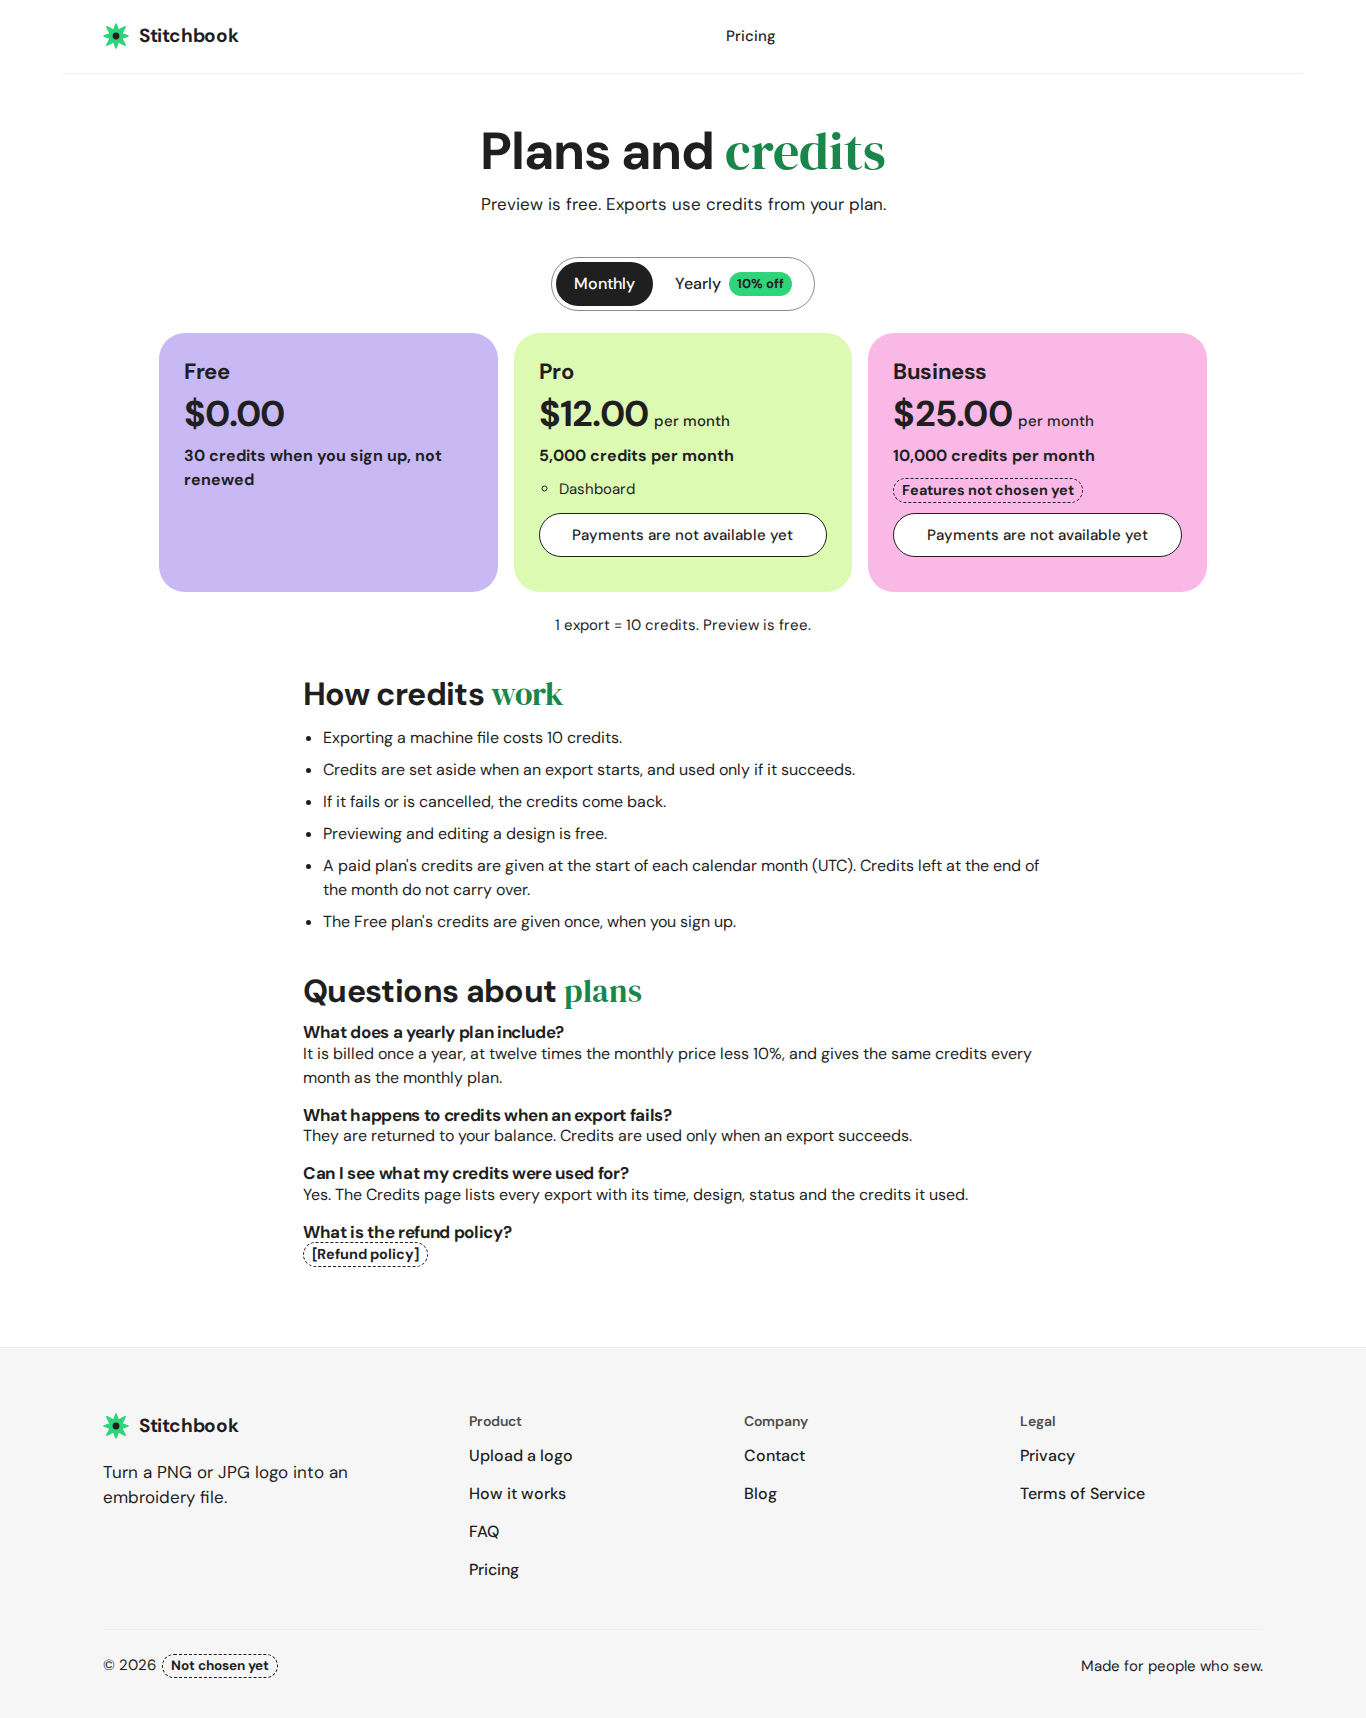
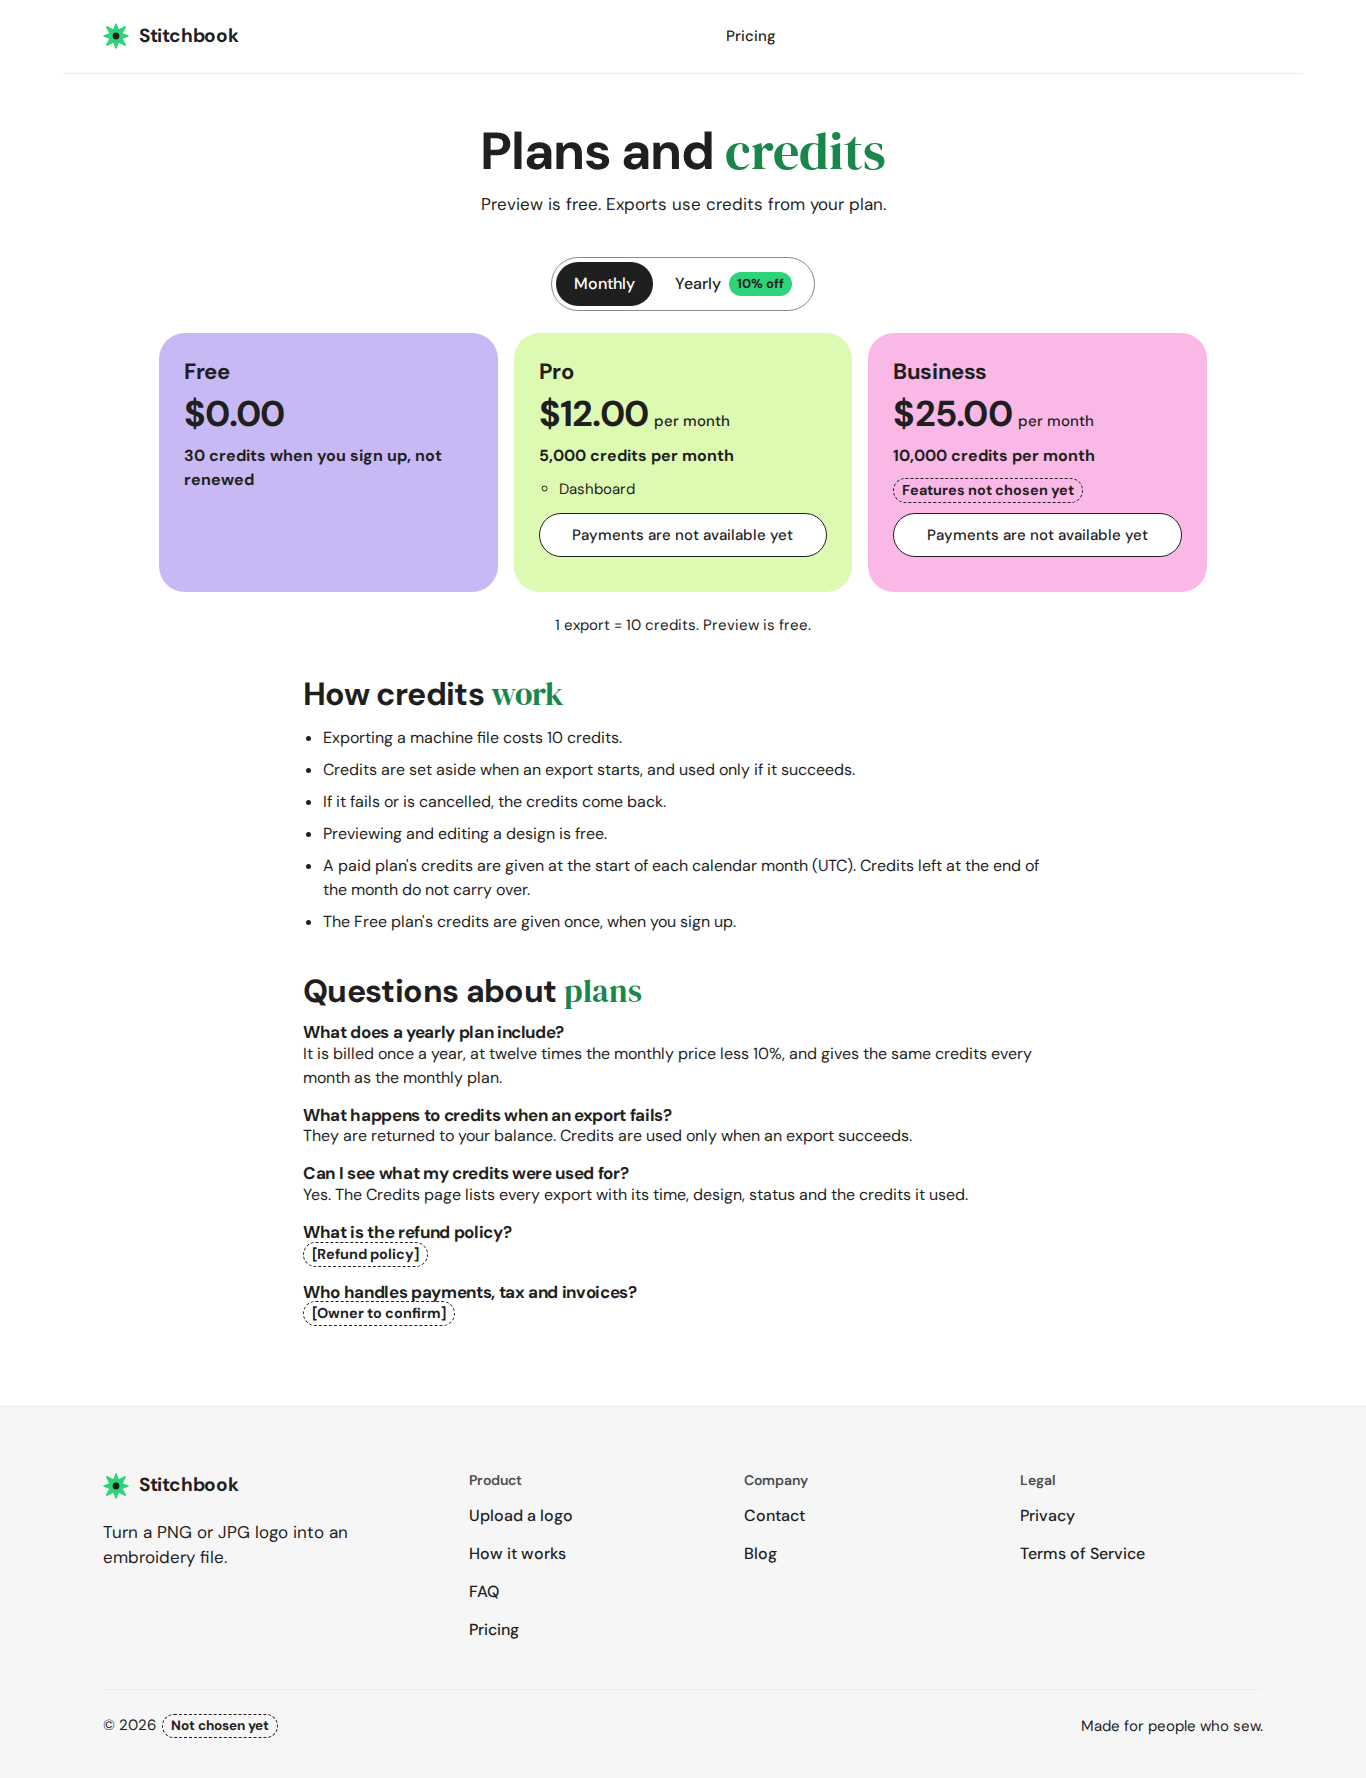
Billing page: Manage billing, Cancel plan, return from checkout, past due
- /billing: Manage billing opens the provider's own page; Cancel plan asks first
- Back from checkout (?checkout=done): checks /me/credits every checkout_return_poll_s
  for checkout_return_wait_s (config; unset = a Check again button only)
- Past due shown plainly; who handles payments/tax stays a visible placeholder
- Phone width: the history wraps instead of widening the page
- test:pricing scans web/src for payment-provider or tax claims

Claude-Session: https://claude.ai/code/session_01UyZuVeNqbWQ99HSc4PFdeP

diff --git a/web/src/pages/Billing.tsx b/web/src/pages/Billing.tsx
@@ -1,22 +1,113 @@
-import { useEffect } from "react";
-import { Link } from "react-router-dom";
+import { useEffect, useRef, useState } from "react";
+import { Link, useSearchParams } from "react-router-dom";
 
+import { api, ApiError, type Account, type Plans } from "../lib/api";
 import { loginPath, signInEnabled, useSession } from "../lib/auth";
-import { count, refreshCredits, useCredits } from "../lib/credits";
-import { SiteFooter, SiteHeader } from "../lib/SiteChrome";
+import { count, refreshCredits, useCredits, usePlans } from "../lib/credits";
+import { NotChosen, SiteFooter, SiteHeader } from "../lib/SiteChrome";
 import { usePage } from "../lib/usePage";
 import "../css/pricing.css";
 
-// /billing: the signed-in user's plan, credit balances and every metered operation.
+// /billing: the signed-in user's plan, credit balances and every metered operation; Manage
+// billing and Cancel plan (the payment provider's own pages: no card form here); and, back from
+// the payment page (?checkout=done), a short wait for the payment to show up.
 
 const TIME = new Intl.DateTimeFormat("en", { dateStyle: "medium", timeStyle: "short" });
 const OPERATION: Record<string, string> = { export: "Export", satin_columns: "Satin columns", auto_digitize: "Auto-digitize" };
 const STATUS: Record<string, string> = { started: "In progress", succeeded: "Done", failed: "Failed (credits returned)", cancelled: "Cancelled (credits returned)" };
 
+type Enabled = Extract<Account, { enabled: true }>;
+const paid = (a: Account | null) => !!a && a.enabled && a.plan !== "free" && a.status === "active";
+const failure = (err: unknown) => err instanceof ApiError && err.status === 503 ? "Payments are not available yet."
+  : "The payment service did not answer. Try again in a minute.";
+
+/** Back from the payment page: look for the payment every poll_s seconds, for at most wait_s. */
+function CheckoutReturn({ plans, account }: { plans: Plans; account: Account | null }) {
+  const { poll_s: poll, wait_s: wait } = plans.checkout_return;
+  const auto = !!poll && !!wait;
+  const [state, setState] = useState<"waiting" | "late">(auto ? "waiting" : "late");
+  const [checking, setChecking] = useState(false);
+  const arrived = paid(account);
+  useEffect(() => {
+    if (!auto || arrived || state !== "waiting") return;
+    const started = Date.now();
+    const timer = window.setInterval(() => {
+      if (Date.now() - started >= wait! * 1000) { setState("late"); window.clearInterval(timer); return; }
+      void refreshCredits();
+    }, poll! * 1000);
+    return () => window.clearInterval(timer);
+  }, [auto, arrived, state, poll, wait]);
+  if (arrived) {
+    return <p className="billing__notice" role="status">Your payment went through. Your plan is now {(account as Enabled).plan_name ?? (account as Enabled).plan}.</p>;
+  }
+  if (state === "waiting") return <p className="billing__notice" role="status">Checking for your payment…</p>;
+  return (
+    <div className="billing__notice" role="status">
+      <p>Your payment has not shown up here yet. It can take a few minutes.</p>
+      <button className="btn btn--ghost" type="button" disabled={checking}
+        onClick={() => { setChecking(true); void refreshCredits().finally(() => setChecking(false)); }}>
+        {checking ? "Checking…" : "Check again"}
+      </button>
+    </div>
+  );
+}
+
+/** Manage billing (the provider's own page) and Cancel plan. */
+function PlanActions({ account }: { account: Enabled }) {
+  const [busy, setBusy] = useState<"manage" | "cancel" | null>(null);
+  const [confirming, setConfirming] = useState(false);
+  const [message, setMessage] = useState<{ text: string; error: boolean } | null>(null);
+  const manage = () => {
+    setBusy("manage"); setMessage(null);
+    api.manageBilling().then(({ url }) => {
+      if (url) window.location.assign(url);
+      else { setBusy(null); setMessage({ text: "There is no payment account to manage yet.", error: false }); }
+    }, (err) => { setBusy(null); setMessage({ text: failure(err), error: true }); });
+  };
+  const cancel = () => {
+    setBusy("cancel"); setMessage(null);
+    api.cancelPlan().then(() => {
+      setBusy(null); setConfirming(false);
+      setMessage({ text: "Renewal is stopped. You keep your plan until the end of the period you paid for.", error: false });
+      void refreshCredits();
+    }, (err) => { setBusy(null); setMessage({ text: failure(err), error: true }); });
+  };
+  const cancellable = account.plan !== "free" && account.status !== "canceled";
+  return (
+    <div className="billing__actions">
+      <div className="billing__buttons">
+        <button className="btn btn--ink" type="button" onClick={manage} disabled={busy !== null}>
+          {busy === "manage" ? "Opening…" : "Manage billing"}
+        </button>
+        {cancellable && !confirming && (
+          <button className="btn btn--ghost" type="button" onClick={() => setConfirming(true)} disabled={busy !== null}>Cancel plan</button>
+        )}
+        <Link className="btn btn--ghost" to="/pricing">See plans</Link>
+      </div>
+      {confirming && (
+        <div className="billing__confirm" role="group" aria-label="Cancel plan">
+          <p>Stop renewing your {account.plan_name ?? account.plan} plan? You keep it until the end of the period you paid for.</p>
+          <div className="billing__buttons">
+            <button className="btn btn--ink" type="button" onClick={cancel} disabled={busy !== null}>
+              {busy === "cancel" ? "Stopping…" : "Yes, stop renewal"}
+            </button>
+            <button className="btn btn--ghost" type="button" onClick={() => setConfirming(false)} disabled={busy !== null}>Keep my plan</button>
+          </div>
+        </div>
+      )}
+      {message && <p className={message.error ? "billing__error" : "billing__done"} role={message.error ? "alert" : "status"}>{message.text}</p>}
+      <p className="billing__provider"><NotChosen what="[Payments, tax and invoices: owner to confirm]" /></p>
+    </div>
+  );
+}
+
 export default function Billing() {
   usePage("Credits and plan · Stitchbook", "billing-page");
   const { ready, session } = useSession();
   const account = useCredits();
+  const { plans } = usePlans();
+  const [params] = useSearchParams();
+  const returned = useRef(params.get("checkout") === "done").current;
   useEffect(() => {
     if (!signInEnabled || !ready) return;
     if (!session) location.assign(loginPath("/billing"));
@@ -56,7 +147,15 @@ export default function Billing() {
             <span className="billing__sub">By exports that succeeded</span>
           </div>
         </div>
-        <p><Link className="btn btn--ink" to="/pricing">See plans</Link></p>
+        {account.status === "past_due" && (
+          <p className="billing__notice" role="alert">
+            Your last payment did not go through, so no new monthly credits are added. Update your payment details in Manage billing.
+          </p>
+        )}
+        {account.status === "canceled" && account.plan !== "free" && (
+          <p className="billing__notice">Renewal is stopped. You keep your plan until the end of the period you paid for.</p>
+        )}
+        {plans?.payments_available ? <PlanActions account={account} /> : <p><Link className="btn btn--ink" to="/pricing">See plans</Link></p>}
         <section aria-labelledby="history-title">
           <h2 id="history-title" className="billing__history-title">History</h2>
           {account.history.length === 0 ? <p>Nothing yet. Exports will be listed here.</p> : (
@@ -87,6 +186,7 @@ export default function Billing() {
         <SiteHeader />
         <main className="billing">
           <h1>Credits and <span className="accent">plan</span></h1>
+          {returned && plans && account?.enabled && <CheckoutReturn plans={plans} account={account} />}
           {body}
         </main>
       </div>

diff --git a/web/src/css/pricing.css b/web/src/css/pricing.css
@@ -82,7 +82,7 @@
 .home-pricing__more { justify-self: center; }
 
 /* ---------- /billing ---------- */
-.billing { width: min(1000px, 100%); margin: 0 auto; padding: 48px var(--gutter) 80px; display: grid; gap: 28px; }
+.billing { width: min(1000px, 100%); margin: 0 auto; padding: 48px var(--gutter) 80px; display: grid; grid-template-columns: minmax(0, 1fr); gap: 28px; }
 .billing h1 { font-size: clamp(32px, 4.5vw, 46px); }
 .billing__cards { display: grid; gap: 14px; grid-template-columns: repeat(auto-fit, minmax(min(100%, 200px), 1fr)); }
 .billing__card { padding: 20px; border: 1px solid var(--border); border-radius: var(--radius-card-sm); display: grid; gap: 4px; }
@@ -97,3 +97,16 @@
 /* A plan button that cannot be used now ("Current plan", "Payments are not available yet"):
    outline on the card, plainly not clickable. */
 .plan__cta:disabled { background: var(--surface); color: var(--ink); border-color: var(--ink); cursor: not-allowed; opacity: 1; transform: none; }
+.billing__notice { padding: 16px 20px; border: 1px solid var(--border); border-radius: var(--radius-card-sm); display: grid; gap: 12px; justify-items: start; }
+.billing__notice p { margin: 0; }
+.billing__actions { display: grid; gap: 14px; justify-items: start; }
+.billing__buttons { display: flex; flex-wrap: wrap; gap: 10px; }
+.billing__confirm { display: grid; gap: 12px; }
+.billing__confirm p, .billing__provider, .billing__error, .billing__done { margin: 0; }
+.billing__error { font-weight: 500; color: var(--danger-text); }
+.billing__provider { font-size: 14px; }
+@media (max-width: 600px) {
+  /* Phones: the history wraps instead of scrolling sideways. */
+  .billing__table { font-size: 14px; }
+  .billing__table th, .billing__table td { padding: 10px 8px; white-space: normal; }
+}

diff --git a/web/src/lib/api.ts b/web/src/lib/api.ts
@@ -191,6 +191,8 @@ export type Plans = {
   monthly_rollover: boolean | null;
   credit_packs: { credits: number; price: number }[] | null;
   refund_policy: string | null;
+  /** /billing, back from the payment page: check every poll_s seconds for at most wait_s (null = not chosen). */
+  checkout_return: { poll_s: number | null; wait_s: number | null };
   payments_available: boolean;
 };
 export type Balance = { available: number; reserved: number; consumed: number };
@@ -343,6 +345,9 @@ export const api = {
   plans: () => request<Plans>("/plans"),
   credits: () => request<Account>("/me/credits", { stayOn401: true }),
   checkout: (plan: "pro" | "business", interval: "month" | "year") => request<{ url: string }>("/billing/checkout", post({ plan, interval })),
+  /** The payment provider's own page to manage or cancel the plan (null when there is none). */
+  manageBilling: () => request<{ url: string | null }>("/billing/manage"),
+  cancelPlan: () => request<{ status: string }>("/billing/cancel", { method: "POST" }),
   trace: (designId: string) => request<Job>(`/designs/${designId}/trace`, { method: "POST" }),
   jobsHealth: (timeoutS?: number) => request<JobsHealth>("/jobs/health", { timeoutS }),
   job: (jobId: string, timeoutS?: number) => request<Job>(`/jobs/${jobId}`, { timeoutS }),

diff --git a/web/src/pages/Pricing.tsx b/web/src/pages/Pricing.tsx
@@ -54,6 +54,10 @@ function Faq({ plans }: { plans: Plans }) {
           <h3>What is the refund policy?</h3>
           <p>{plans.refund_policy ?? <NotChosen what="[Refund policy]" />}</p>
         </div>
+        <div>
+          <h3>Who handles payments, tax and invoices?</h3>
+          <p><NotChosen what="[Owner to confirm]" /></p>
+        </div>
       </div>
     </section>
   );

diff --git a/digitizer/src/digitizer/config.py b/digitizer/src/digitizer/config.py
@@ -340,6 +340,12 @@ PRODUCT: dict[str, dict[str, Any]] = {
         # clock (either way) is refused (replay protection). 300 = the 5 minutes of the Standard
         # Webhooks spec that Whop signs with (given in the Step 13c request).
         "webhook_tolerance_s": 300,
+        # Back from the payment page, /billing asks for the plan and credits every
+        # checkout_return_poll_s seconds, for at most checkout_return_wait_s seconds, until the
+        # payment's webhook has arrived; then it says plainly that it can take longer.
+        # PLACEHOLDER = no automatic checks, only a "Check again" button.
+        "checkout_return_poll_s": PLACEHOLDER,
+        "checkout_return_wait_s": PLACEHOLDER,
         # The API gives up on a call to the payment provider (create a checkout, cancel, read a
         # membership or plan) after this many seconds and answers with a plain "try again".
         "provider_http_timeout_s": PLACEHOLDER,

diff --git a/api/src/stitchbook_api/plans.py b/api/src/stitchbook_api/plans.py
@@ -90,6 +90,9 @@ def plans(config: Config) -> dict[str, Any]:
         "monthly_rollover": chosen(config, "billing.monthly_rollover"),
         "credit_packs": packs if isinstance(packs, list) and packs else None,
         "refund_policy": chosen(config, "billing.refund_policy"),
+        # /billing, back from the payment page: how often and how long to look for the payment.
+        "checkout_return": {"poll_s": chosen(config, "billing.checkout_return_poll_s"),
+                            "wait_s": chosen(config, "billing.checkout_return_wait_s")},
     }
 
 
